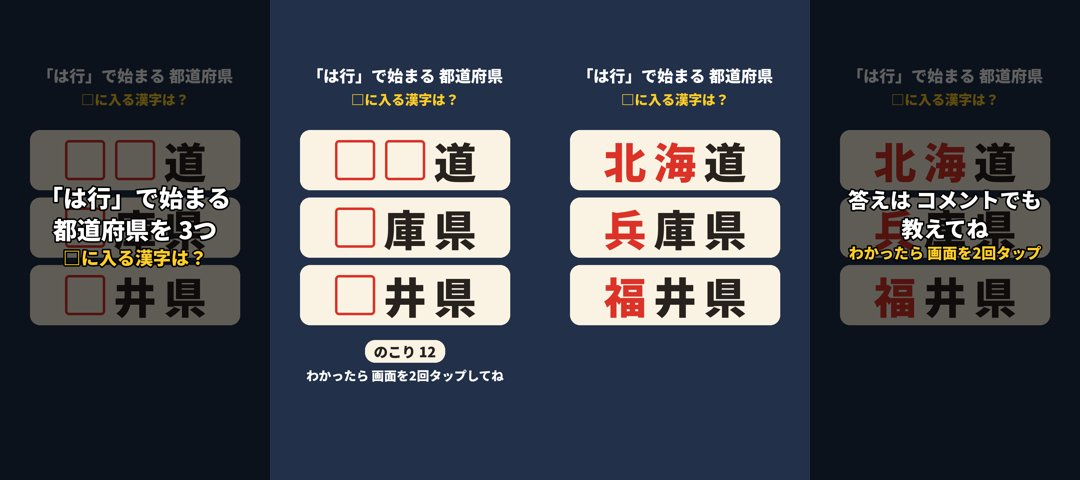
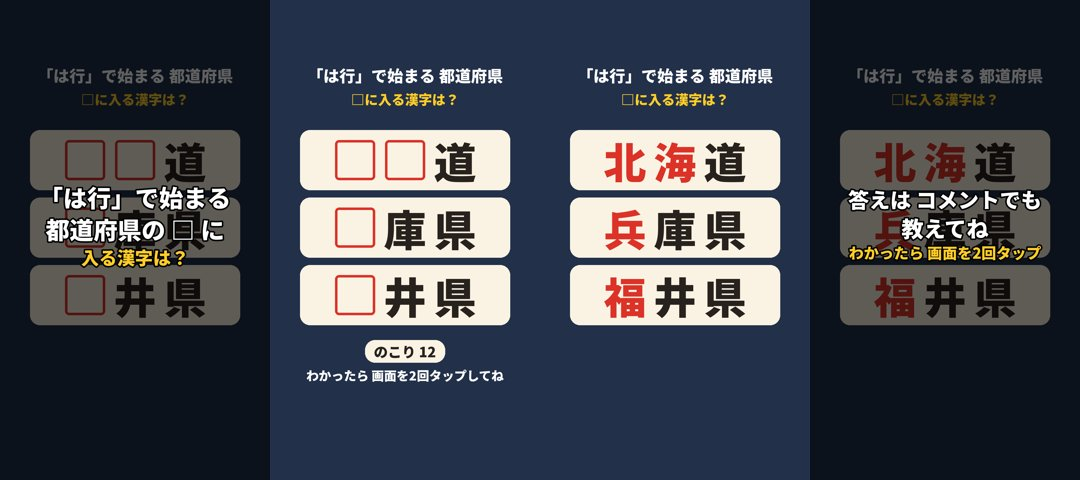
文字の脳トレ試作：調査部の確認（3本とも答えは正しい）を受け、①の問題文から「3つ」を外した
Claude-Session: https://claude.ai/code/session_01RF3BnfrPSRk1U21VXW6Yry

Changed region(s): [[0.0306, 0.4375, 0.2139, 0.5625]]

diff --git a/scripts/text_shorts.py b/scripts/text_shorts.py
@@ -72,7 +72,7 @@ def footer(d, remain=None, tap=True):
 # ---------- ① 都道府県の穴埋め ----------
 PREF = {"title": "「は行」で始まる 都道府県", "sub": "□に入る漢字は？",
         "items": [("□□道", "北海道"), ("□庫県", "兵庫県"), ("□井県", "福井県")],
-        "think": 12, "veil": ["「は行」で始まる", "都道府県を 3つ", "□に入る漢字は？"]}
+        "think": 12, "veil": ["「は行」で始まる", "都道府県の □ に", "入る漢字は？"]}
 
 
 def pref_frame(state, remain=None):

diff --git a/outputs/prototypes/text_shorts_001/research_check.md b/outputs/prototypes/text_shorts_001/research_check.md
@@ -1,0 +1,42 @@
+# 文字の脳トレ試作3本 事実確認（調査部 2026-11-20）
+
+結論：3本とも答えは正しい。直す点は2つ（③の説明の言い方、①の「3つ」の言い方）。
+
+## ① 都道府県（北海道・兵庫県・福井県）
+事実（出典：https://ja.wikipedia.org/wiki/都道府県 本文を開いて確認）
+- 読みは ほっかいどう／ひょうごけん／ふくいけん。3つとも「は行」で始まる。
+- は行で始まる都道府県は全部で6つ：北海道、福島（ふくしま）、福井（ふくい）、兵庫（ひょうご）、広島（ひろしま）、福岡（ふくおか）。は・へで始まるものはない。
+- 「□庫県」に合うのは兵庫県だけ、「□井県」は福井県だけ、「□□道」は北海道だけ（47都道府県を全部照合。道は北海道のみ）。答えは1つに決まる。
+意見
+- 「3つ」と書くと、広島・福岡・福島も正解では？と思う人が出るかもしれない。問題は「□の形」で答えが決まるので成立しているが、言い方を変えると安全。
+- 案：「は行で始まる都道府県が6つあります。そのうち3つの□は？」または「は行で始まる都道府県。□に入る漢字は？」（「3つ」を外す）。
+- 補足：□□道は2文字入るが、見出しの「□に入る漢字は？」と食い違わない。気になるなら「□に入る漢字を答えて」でよい。
+
+## ② ひらがな十字（さ□な／あ□り → か）
+事実
+- さかな・あかりはどちらも普通の言葉。
+- 辞書サイト（jisho.org）は今回の環境で接続できず、機械的な全数照合はできていない。以下は調査部の知識による確認で、出典なし。
+- よこ「さ□な」で一般的な名詞は「さかな」のみ。「さすな」「さくな」などは「〜するな」の禁止形で、言葉として問題にされにくい。
+- たて「あ□り」は あかり・あさり・あぶり・あたり・あまり・あおり など多数ある。よこが「さかな」に決まるので、たては「あかり」で通る。
+意見
+- 答えは実質1つ。ただし視聴者が「さすな」等を言い出す余地は理論上ゼロではない。コメントで指摘が出たら概要欄で補足すれば足りる。
+- 心配なら、国語辞典（goo辞書など）で「さ?な」を検索して確認する。許可ドメインが必要。
+
+## ③ 漢字の間違い探し（姫路城、3行目 城→域、6行目 路→略）
+事実
+- 域：常用漢字、小6、部首は土（https://ja.wikipedia.org/wiki/常用漢字一覧 本文で確認）。
+- 城：常用漢字、小4、部首は土（同上）。
+- 路：小3、略：小5（https://ja.wikipedia.org/wiki/学年別漢字配当表 本文で確認）。学年別配当表の漢字はすべて常用漢字。
+- 路の部首は足（あしへん）、略は田（たへん）。これは調査部の知識で、今回は本文で確認していない。
+- 姫路城（ひめじじょう）の表記は正しい。世界遺産（1993年12月登録）、天守群は国宝（https://ja.wikipedia.org/wiki/姫路城 本文で確認）。
+- コード上の違いの位置は (2,2)=3行目の城、(5,1)=6行目の路で、問題文の説明と一致。
+修正が必要な点
+- 「城」と「域」は部首が同じ土へん。違うのは右側（成／或）。「部首が違う」は誤り。
+- 「路」と「略」は部首が違う（足／田）。右側は同じ「各」。
+- 台本・説明欄に書くなら：「城と域は、右側の形が似ています」「路と略は、左側が違います」。
+- 難しさの意見：城／域は同じ土へんで形がよく似ているので難。路／略は左が違うので比較的やさしい。2問のレベル差は許容範囲。
+
+## 直し方の案まとめ
+1. ① 「3つ」を外すか「6つのうち3つ」と書く（任意）。
+2. ② 変更なし。気になれば辞書で追加確認。
+3. ③ 「部首が違う」と言わない。城／域は右側の違い、路／略は左側の違い、と説明する。
